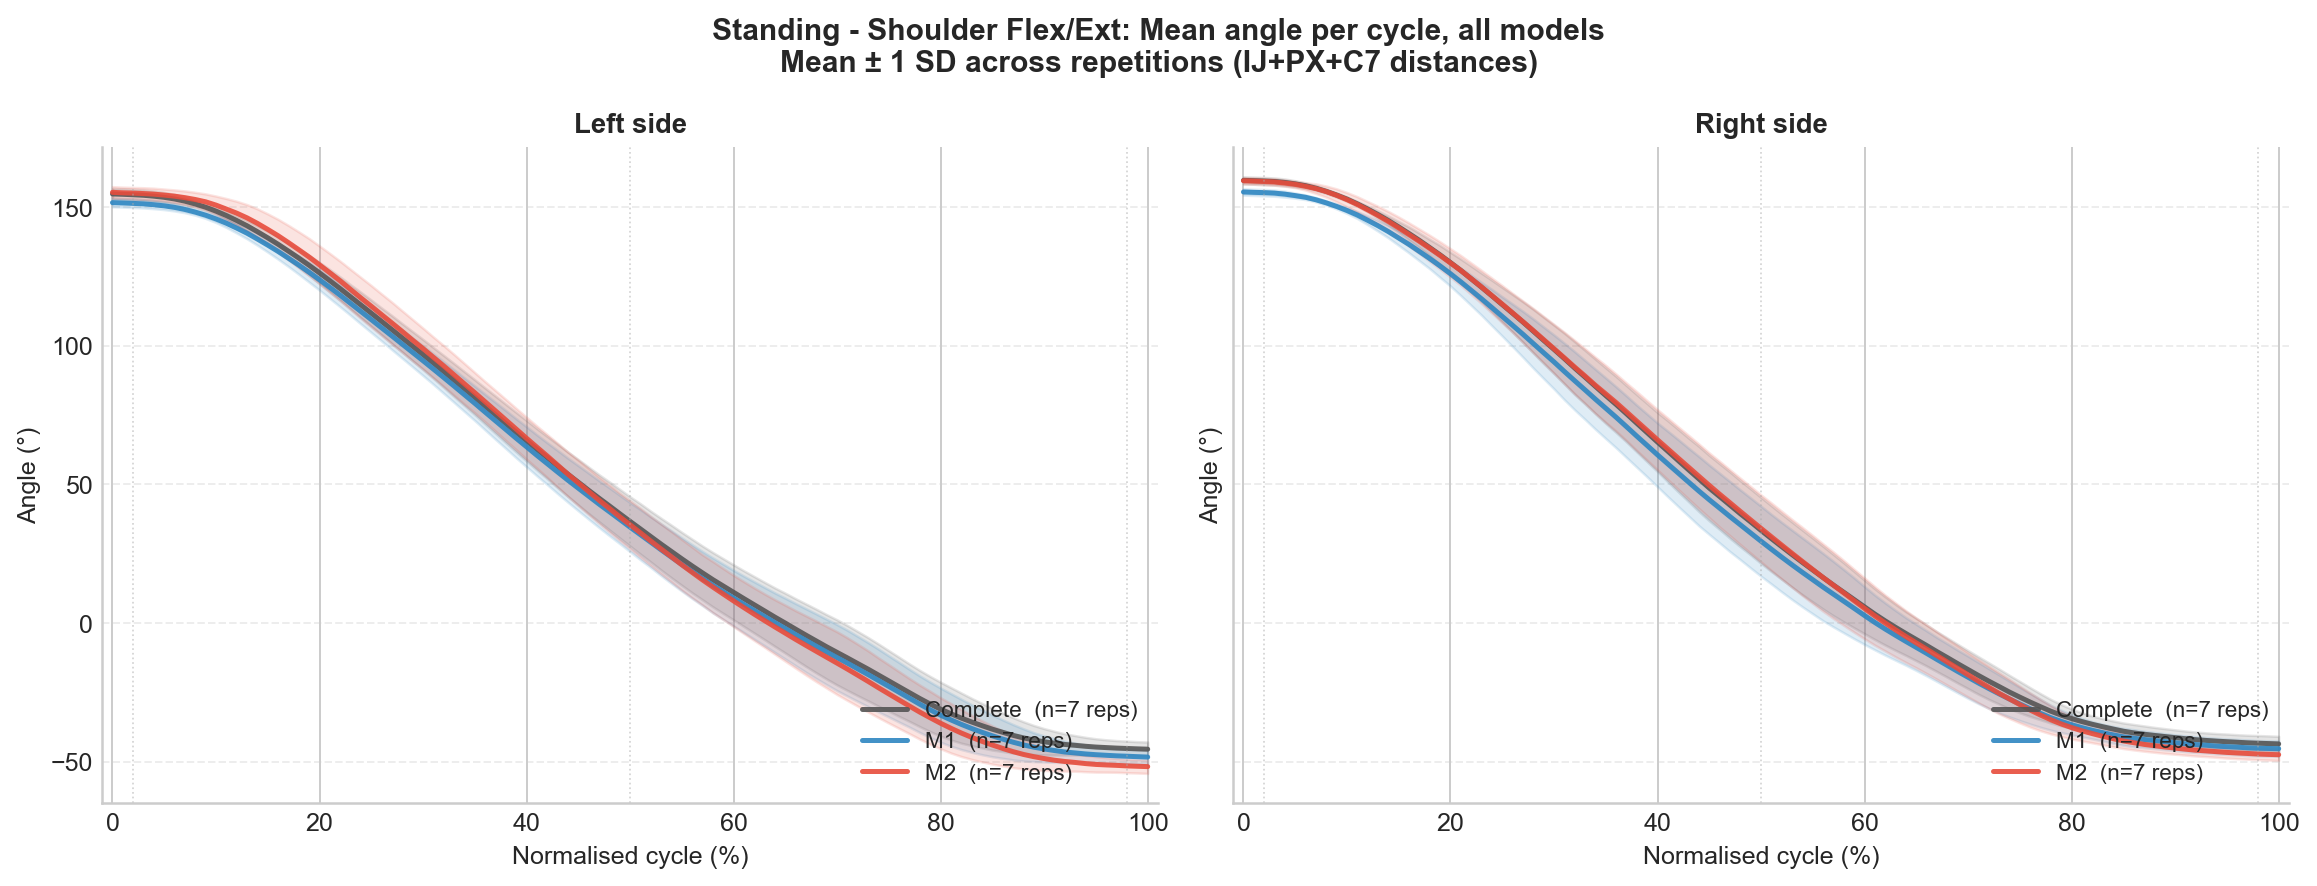
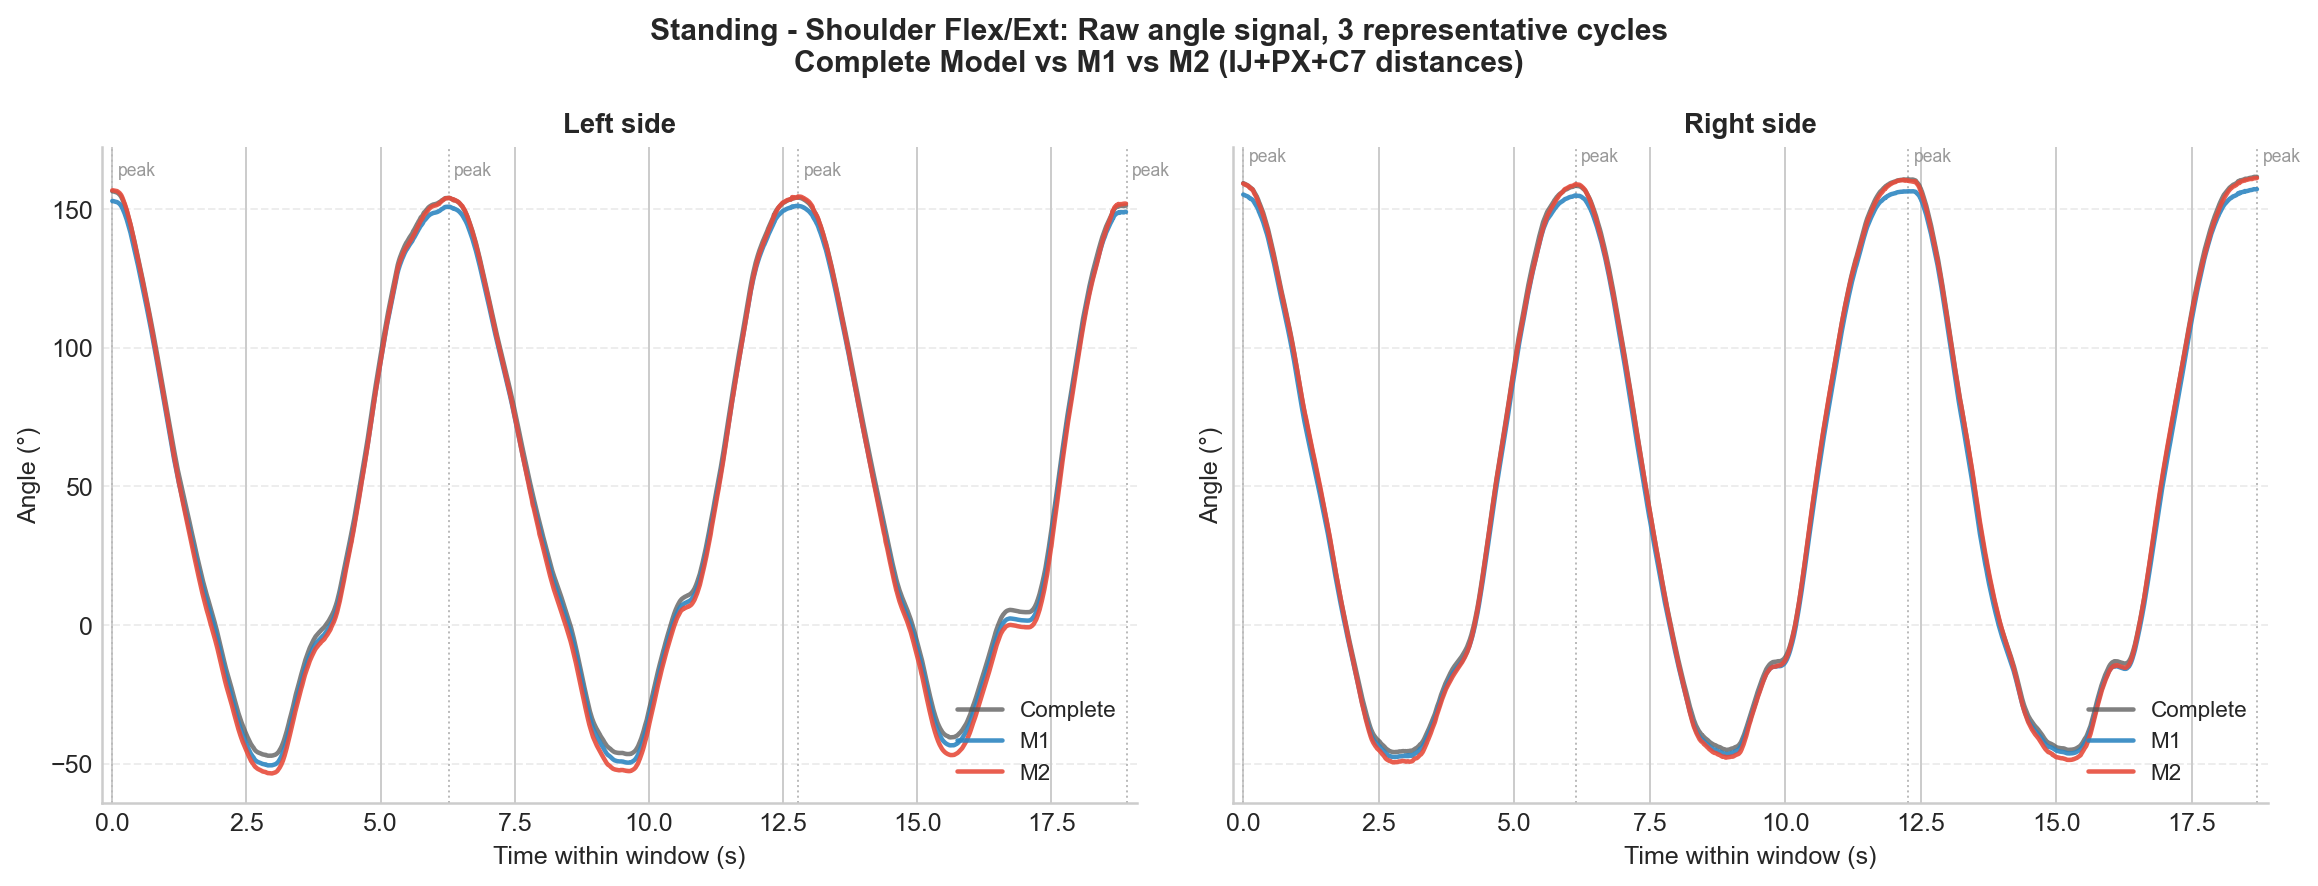
Replace fig8 with raw temporal zoom (3 cycles, all models overlaid)
Swap the normalised mean-band version for a raw signal zoom showing
3 representative cycles from the middle of the recording. The raw plot
conveys the key message more directly: Complete, M1, and M2 trace a
nearly identical curve in mid-range, while M2 separates visibly at
both angle extremes (valley ~-50 deg and peak ~150 deg) rep after rep.
Caption updated accordingly in results_summary.md.

diff --git a/Intermodel comparison/grab7/Results_summary/results_summary.md b/Intermodel comparison/grab7/Results_summary/results_summary.md
@@ -79,13 +79,13 @@
 
 ---
 
-### Figure 8 - Temporal angle waveform: Shoulder Flex/Ext, mean cycle across repetitions
+### Figure 8 - Temporal angle waveform: Shoulder Flex/Ext, 3 representative cycles
 
 ![Figure 8](fig8_temporal_shoulder_flexext.png)
 
-**Caption.** Mean ± 1 SD humerothoracic angle across all repetitions (n=7), normalised to a common 0-100% cycle, for Shoulder Flexion/Extension in standing (IJ+PX+C7 distances). Grey: Complete Model (reference). Blue: M1. Red: M2. Shaded bands indicate inter-repetition variability. Left and Right panels correspond to the respective limbs. 0% = neutral starting position; 100% = return to neutral after full flexion arc.
+**Caption.** Raw humerothoracic angle signal during 3 representative cycles of Shoulder Flexion/Extension in standing (IJ+PX+C7 distances), selected from the middle of the continuous recording. Grey: Complete Model (reference). Blue: M1. Red: M2. Vertical dotted lines mark peak flexion instants detected on the reference signal. Left and Right panels correspond to the respective limbs.
 
-**Why this figure.** Provides the qualitative reading that statistical tables cannot convey. Three observations are visible directly: (1) all three models follow an almost identical trajectory throughout the mid-range of movement (~20-70% of the cycle), confirming that model differences are not pervasive; (2) the separation of M2 from the Complete Model is concentrated at the angle extremes (peak flexion and starting neutral), where the virtual C7 reconstruction error has its greatest angular effect; (3) M1 remains visually indistinguishable from the Complete Model across the entire cycle, consistent with its near-zero bias and excellent ICC. This pattern supports using ROM as the primary validation metric: the systematic offset of M2 at both extremes is what produces the mean bias of ~7°, while the high ICC reflects that the offset is consistent across repetitions.
+**Why this figure.** Provides the qualitative reading that statistical tables cannot convey. Three observations are immediately visible: (1) all three models trace a nearly identical curve throughout the mid-range of each cycle, confirming that model differences are not pervasive across the full movement; (2) M2 (red) separates from the Complete Model at both extremes — valley (maximum extension, ~-50°) and peak (maximum flexion, ~150°) — and the separation is consistent rep after rep; (3) M1 (blue) remains visually indistinguishable from the Complete Model at all phases of the cycle. This pattern explains why the ROM bias of M2 is systematic (same offset at peak and valley → consistent ROM error) while the ICC remains excellent (the offset repeats identically each repetition).
 
 ---
 
